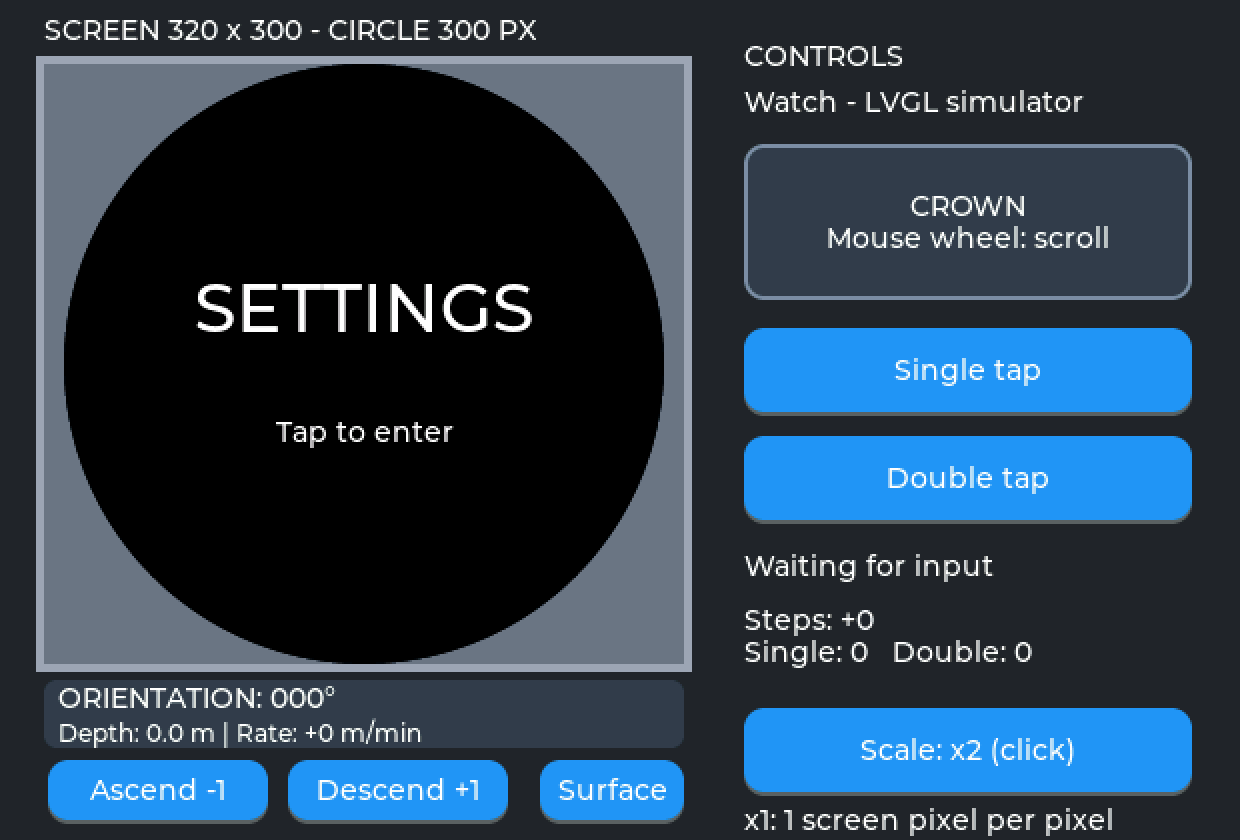
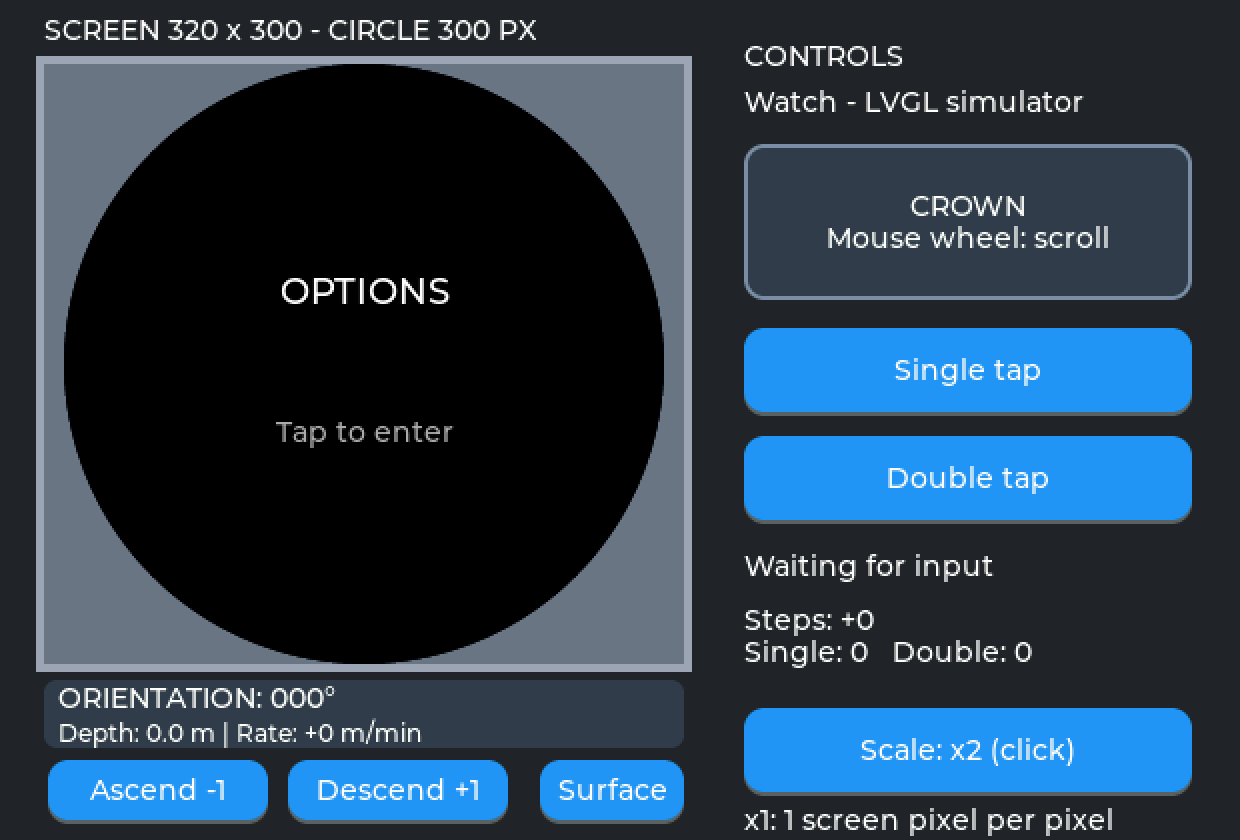
Match apnea options gate to scuba screen

Changed region(s): [[0.1532, 0.3095, 0.429, 0.4024], [0.2145, 0.4952, 0.3677, 0.5262]]

diff --git a/V2/Firmware/simulator/src/apnea_settings.c b/V2/Firmware/simulator/src/apnea_settings.c
@@ -11,10 +11,11 @@ static const char *const fields[]={"TEMPERATURE","MAX DEPTH","UNDERWATER TIME","
 static void row_y(void *o,int32_t y){lv_obj_set_y(o,y);}
 static void refresh(bool animate)
 {
- lv_label_set_text(heading,editor==1?"WATER TYPE":editor==2?"BOTTOM FIELD":"SETTINGS");
- lv_obj_set_style_text_font(heading,engaged?&lv_font_montserrat_24:&lv_font_montserrat_34,0);
+ lv_label_set_text(heading,editor==1?"WATER TYPE":editor==2?"BOTTOM FIELD":engaged?"SETTINGS":"OPTIONS");
+ lv_obj_set_style_text_font(heading,engaged?&lv_font_montserrat_24:&lv_font_montserrat_18,0);
  lv_obj_align(heading,LV_ALIGN_TOP_MID,0,engaged?43:103);
  lv_label_set_text(help,engaged?"Double tap to return":"Tap to enter");
+ lv_obj_set_style_text_color(help,engaged?lv_color_white():lv_color_hex(0xaaaaaa),0);
  lv_obj_align(help,LV_ALIGN_TOP_MID,0,engaged?257:176);
  int count=editor==2?APNEA_BOTTOM_COUNT+1:3,selected=editor?pending:entry;
  if(!engaged){

diff --git a/V2/Firmware/simulator/src/apnea_settings_checks.c b/V2/Firmware/simulator/src/apnea_settings_checks.c
@@ -69,7 +69,7 @@ bool apnea_settings_checks_inputs(uint64_t *sample_ms)
  case 50:turn(2);break;
  case 51:{
   bool salt=watch_ui_salt_water();enum apnea_bottom_field field=apnea_settings_bottom_field();
-  expect("SETTINGS");expect("Tap to enter");
+  expect("OPTIONS");expect("Tap to enter");
   __ASSERT(!visible(lv_screen_active(),"WATER TYPE"),"Gate exposed settings before tap");
   char path[512];snprintf(path,sizeof(path),"%s/settings-gate.bmp",sim_host_gallery_path());lv_refr_now(NULL);__ASSERT(!sim_host_capture(path),"Gate capture");
   click();expect("WATER TYPE");expect("BOTTOM FIELD");

diff --git a/V2/Firmware/simulator/README.md b/V2/Firmware/simulator/README.md
@@ -66,8 +66,8 @@ leaving ends it without resetting scuba exposure or watch preferences. Session
 records update during the current apnea. Statistics uses the same geometry with orange separators and shows session
 maximum depth, longest apnea, apnea count and elapsed session time (H:MM:SS).
 It has no direction indicator or recovery ring. The page sequence is Main →
-Statistics → Settings → Leave. The Settings page first shows a gate with
-Tap to enter, matching scuba. A tap opens Water Type / Bottom Field / BACK.
+Statistics → Settings → Leave. The Settings page first shows OPTIONS in Montserrat 18 at y=103 and
+a gray Tap to enter in Montserrat 14 at y=176, matching scuba. A tap opens Water Type / Bottom Field / BACK.
 Both choice editors include BACK; selecting it or double-tapping returns one
 level without applying the pending edit, including during immersion.
 Settings groups Water Type (Fresh/Marine) and
